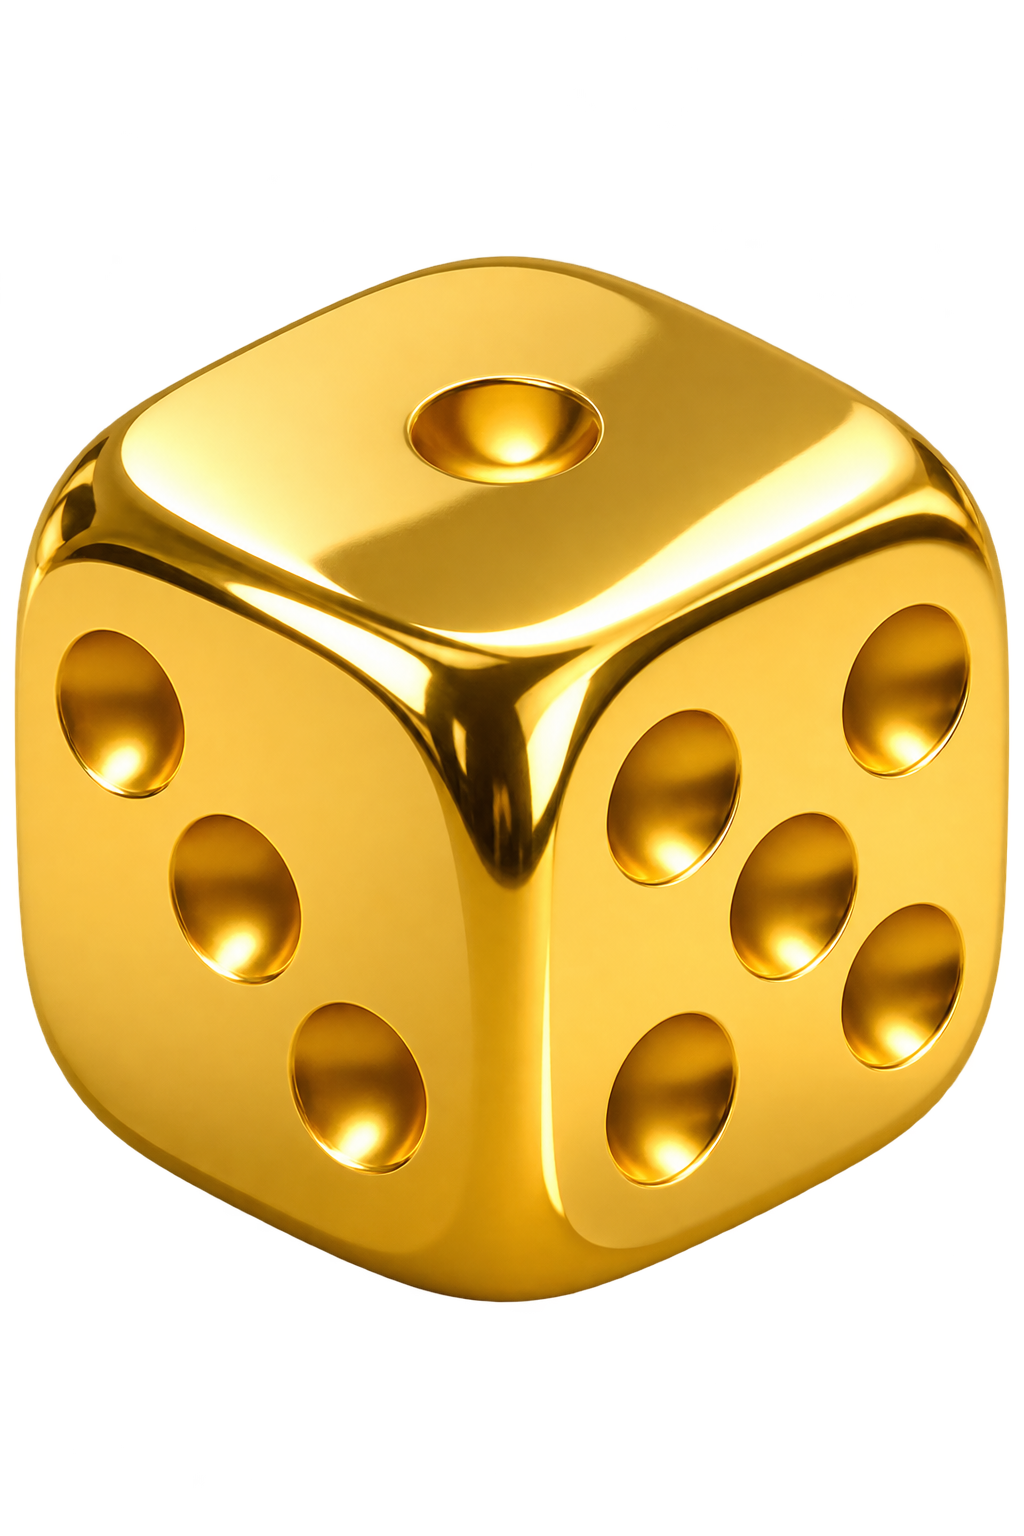
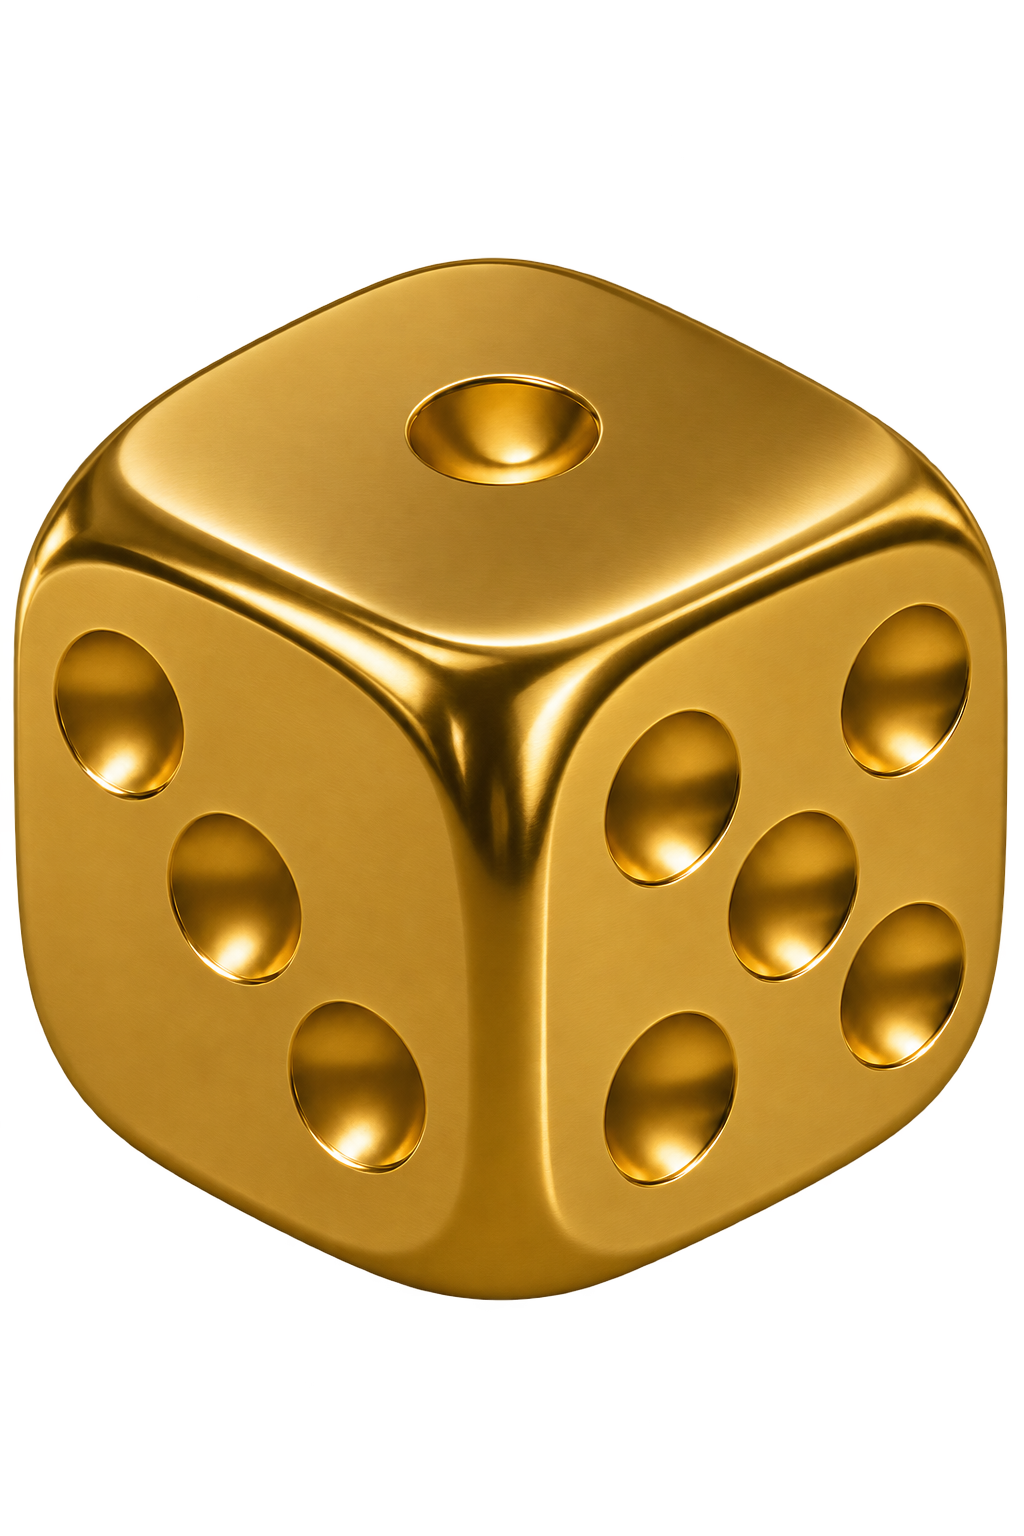
Refine Atomic960 dice trophy

diff --git a/src/index.css b/src/index.css
@@ -46,6 +46,10 @@ canvas {
   max-width: 100%;
 }
 
+img[src*="/a960e-trophies/"] {
+  scale: 0.92;
+}
+
 ::selection {
   background: color-mix(in srgb, var(--color-primary) 48%, transparent);
   color: var(--color-heading);
